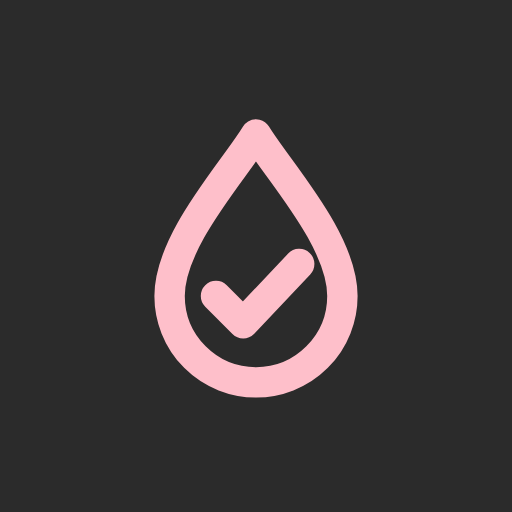
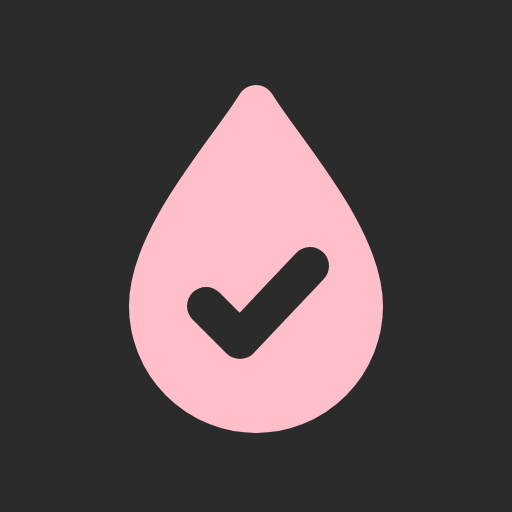
Draw Amber's mark without a tile
The header showed the app icon as it was: a pastel pink drop on Itrium's graphite tile. On the graphite page the tile matched the page, but on the light page it drew a dark square. The mark is redrawn to need no tile: the drop is filled pastel pink and the tick is graphite on it, the way anything on pink is graphite, so it reads on light and dark pages alike, and on graphite the tick reads as cut out of the drop. A pink line alone was tried and faded to 1.5:1 on white.

The header uses the compact mark, cropped to the drop so the name sits beside it as before. The favicons and desktop install icons are the mark on a transparent background; the Apple touch icon and the maskable icon have it on full-bleed graphite, since those systems want no transparency and round the corners themselves. The link preview shows the drop where the tile was. All are copies from ~/Itrium/Assets, built by source/amber.py.

Changed region(s): [[0.25, 0.1562, 0.75, 0.8438], [0.3438, 0.3125, 0.6562, 0.7188]]

diff --git a/src/routes/+page.svelte b/src/routes/+page.svelte
@@ -17,6 +17,7 @@
 	import TaskDetails from '#lib/components/TaskDetails.svelte';
 	import TaskRow from '#lib/components/TaskRow.svelte';
 	import Seo from '#lib/Seo.svelte';
+	import mark from '#lib/amber-mark-compact.svg';
 	import {
 		backupReminder,
 		DESCRIPTION,
@@ -451,9 +452,9 @@
 			>
 				<Icon name="menu" class="size-5" />
 			</button>
-			<!-- Amber's icon, as it is. On the graphite page its tile is the page's own color, so the mark
-			     stands alone; an outline around it drew a frame a little apart from the tile. -->
-			<img src="/favicon.svg" alt="" width="32" height="32" class="size-8" />
+			<!-- Amber's mark, the compact one for its size: a pink drop with a graphite tick, which needs
+			     no tile behind it on a light page or a dark one. -->
+			<img src={mark} alt="" width="24" height="32" class="h-8 w-auto" />
 			<p class="text-xl font-bold tracking-tight">Amber</p>
 		</div>
 		<!-- The search bar as people know it from every list app: wide, rounded, on its own line on a
